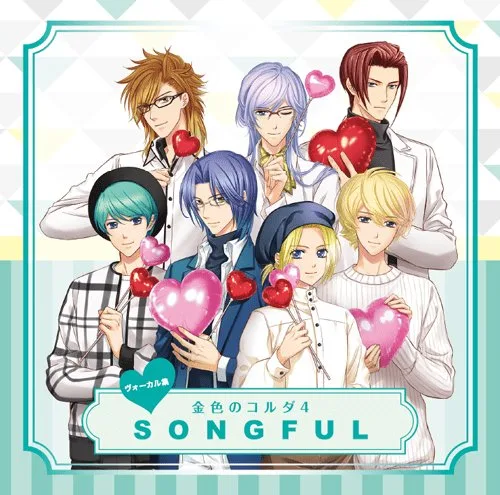
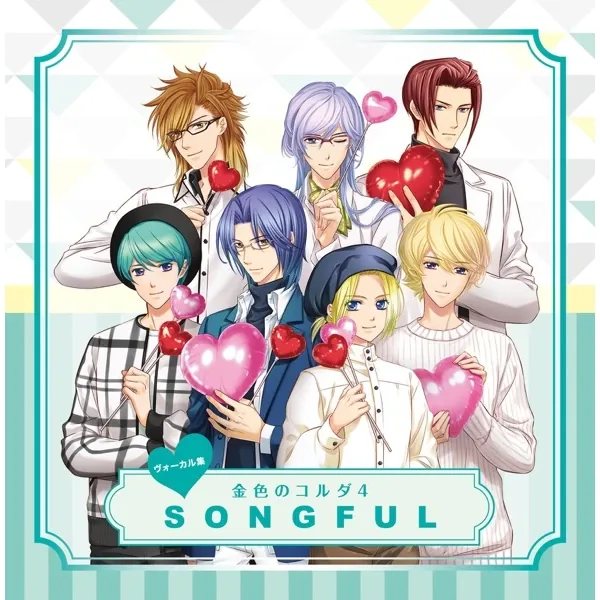
fix: regenerate works image at full size

diff --git a/docs/00_HANDOVER.md b/docs/00_HANDOVER.md
@@ -71,6 +71,7 @@
 - 参照中の容量超過本画像10件を第2バッチとして600×600px維持・80,000bytes以下へ再圧縮済み（2026-07-29）
 - 参照中の容量超過本画像10件を第3バッチとして600×600px維持・80,000bytes以下へ再圧縮済み（2026-07-29）
 - 参照中の容量超過本画像16件を最終バッチとして600×600px維持・80,000bytes以下へ再圧縮済み（2026-07-29）
+- `_hash_works_036.webp` を同一作品の高解像度元画像から600×600px・quality 82で再生成済み（2026-07-29）
 
 ### Feature 2026-05-04（privacy.html 新規追加・未push）
 - `privacy.html` 新規作成（個人情報取り扱い7項目、施行日 2026-05-04）

diff --git a/data/change_log.md b/data/change_log.md
@@ -1,5 +1,6 @@
 # Change Log
 
+- 2026-07-29: `_hash_works_036.webp` を同一作品の高解像度元画像から600×600px・quality 82で再生成
 - 2026-07-29: 参照中の容量超過本画像16件を最終バッチとして600×600px維持・80,000bytes以下へ再圧縮
 - 2026-07-29: 参照中の容量超過本画像10件を第3バッチとして600×600px維持・80,000bytes以下へ再圧縮
 - 2026-07-29: 参照中の容量超過本画像10件を第2バッチとして600×600px維持・80,000bytes以下へ再圧縮
